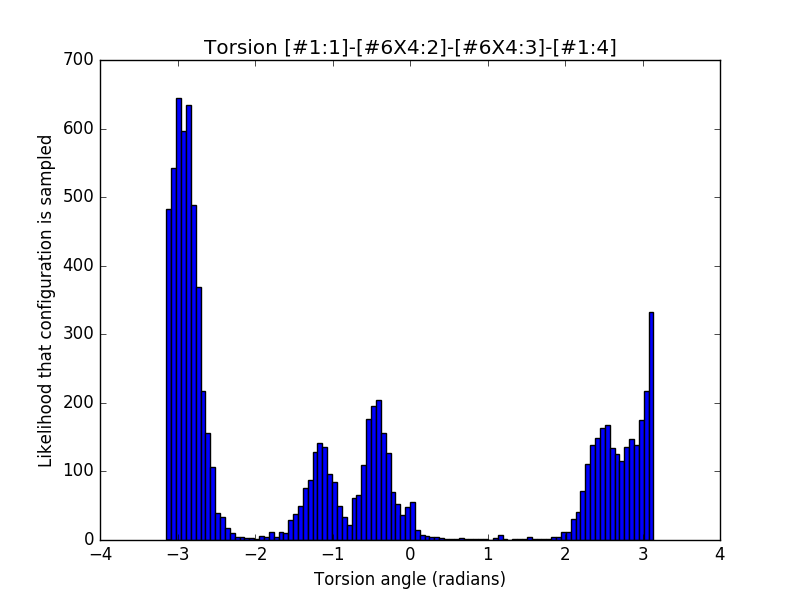
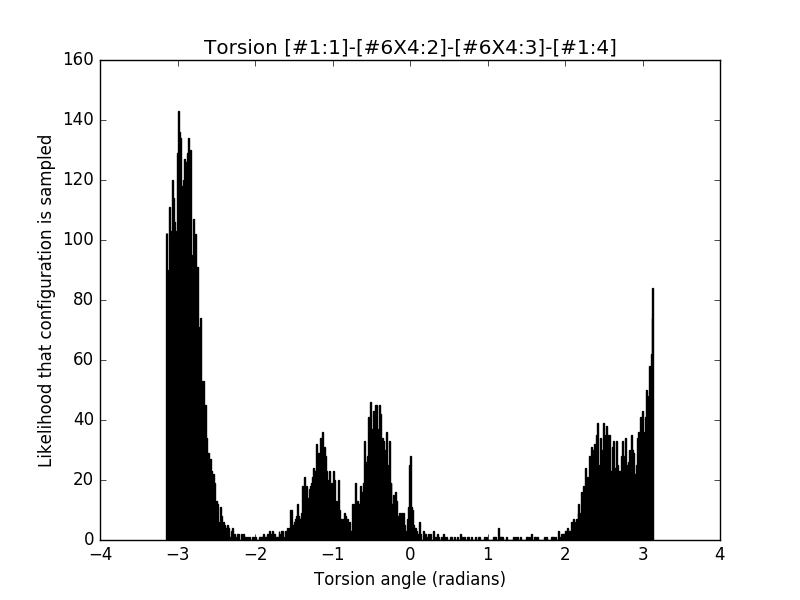
check fourier series fit

diff --git a/single-molecule-property-generation/least_squares_fit_example.py b/single-molecule-property-generation/least_squares_fit_example.py
@@ -1,6 +1,3 @@
-# Ben Coscia
-# Homework 10
-# Part II Question 3
 import matplotlib as mpl
 
 mpl.use('Agg')
@@ -329,6 +326,13 @@ def readtraj(ncfiles):
     return data, xyz, time 
 
 #------------------------------------------------------------------
+tau = 1.
+def fourier(x, *a):
+    ret = a[0]* np.cos(np.pi / tau * x)
+    for deg in range(1, len(a)):
+        ret += a[deg] * np.cos((deg+1) * np.pi / tau * x)
+    return ret
+#-----------------------------------------------------------------
 # Fit the given data to a 5 term fourier series:
 # S_6(x) = (a0/2) + a1*np.sin(2*math.pi*x/P + phi1) + a2*np.sin(4*math.pi*x/P + phi2) + a3*np.sin(6*math.pi*x/P + phi3) + a6*np.sin(12*math.pi*x/P + phi6)
 #   S_6(x)  == Torsion angle in radians
@@ -453,7 +457,7 @@ torsion_r48_c = torstimeser_r48[12]
 #likelihood = (np.bincount(binplace))/100.
 
 
-num_bins = 100
+num_bins = 500
 
 #plt.figure()
 #plt.hist(bond_r51_a,num_bins,color='green')
@@ -497,7 +501,9 @@ num_bins = 100
 #plt.savefig('torsion_histograms/Torsion_likelihood_r48_r51_comp_tors_[#1:1]-[#6X4:2]-[#6X4:3]-[#1:4].png')
 print torsion_r48_a
 plt.figure()
-plt.hist(torsion_r48_a,num_bins,label='AlkEthOH_r48',color='green')
+(n1,bins1,patch1) = plt.hist(torsion_r48_a,num_bins,label='AlkEthOH_r48',color='green')
+popt, pcov = sci.curve_fit(fourier, bins1[1:], n1, [1.0] * 7)
+plt.plot(bins1[1:],fourier(bins1[1:],popt[0],popt[1],popt[2],popt[3],popt[6]))
 plt.ylabel('Number of times configuration is sampled')
 plt.xlabel('Torsion angle (radians)')
 plt.title('Torsion sample in AlkEthOH_r48')
